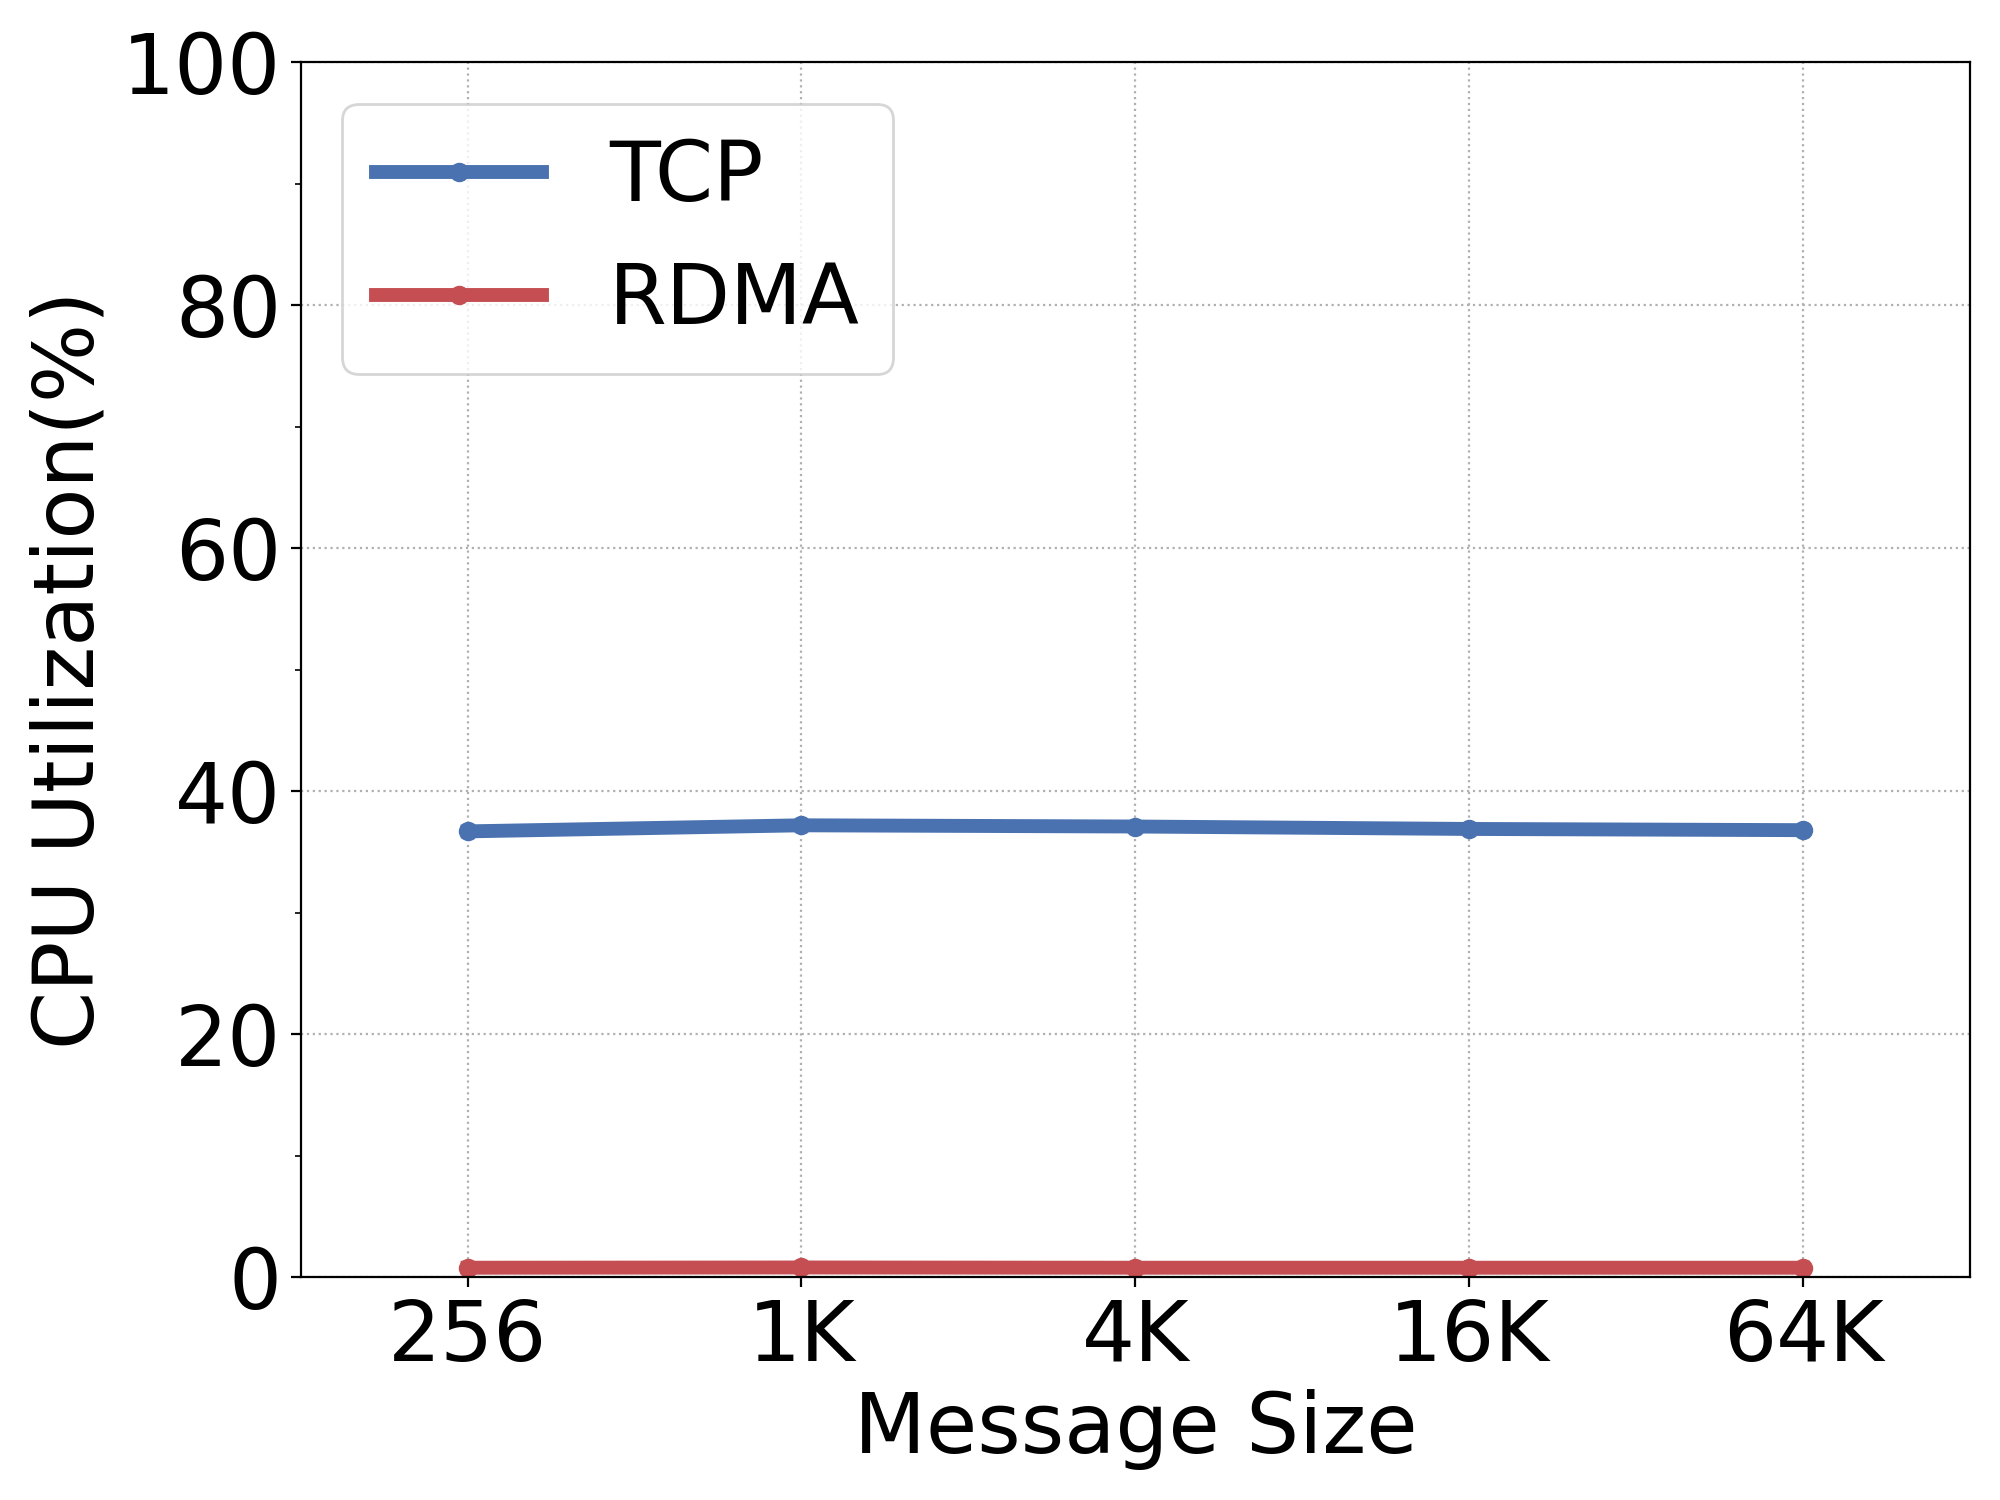
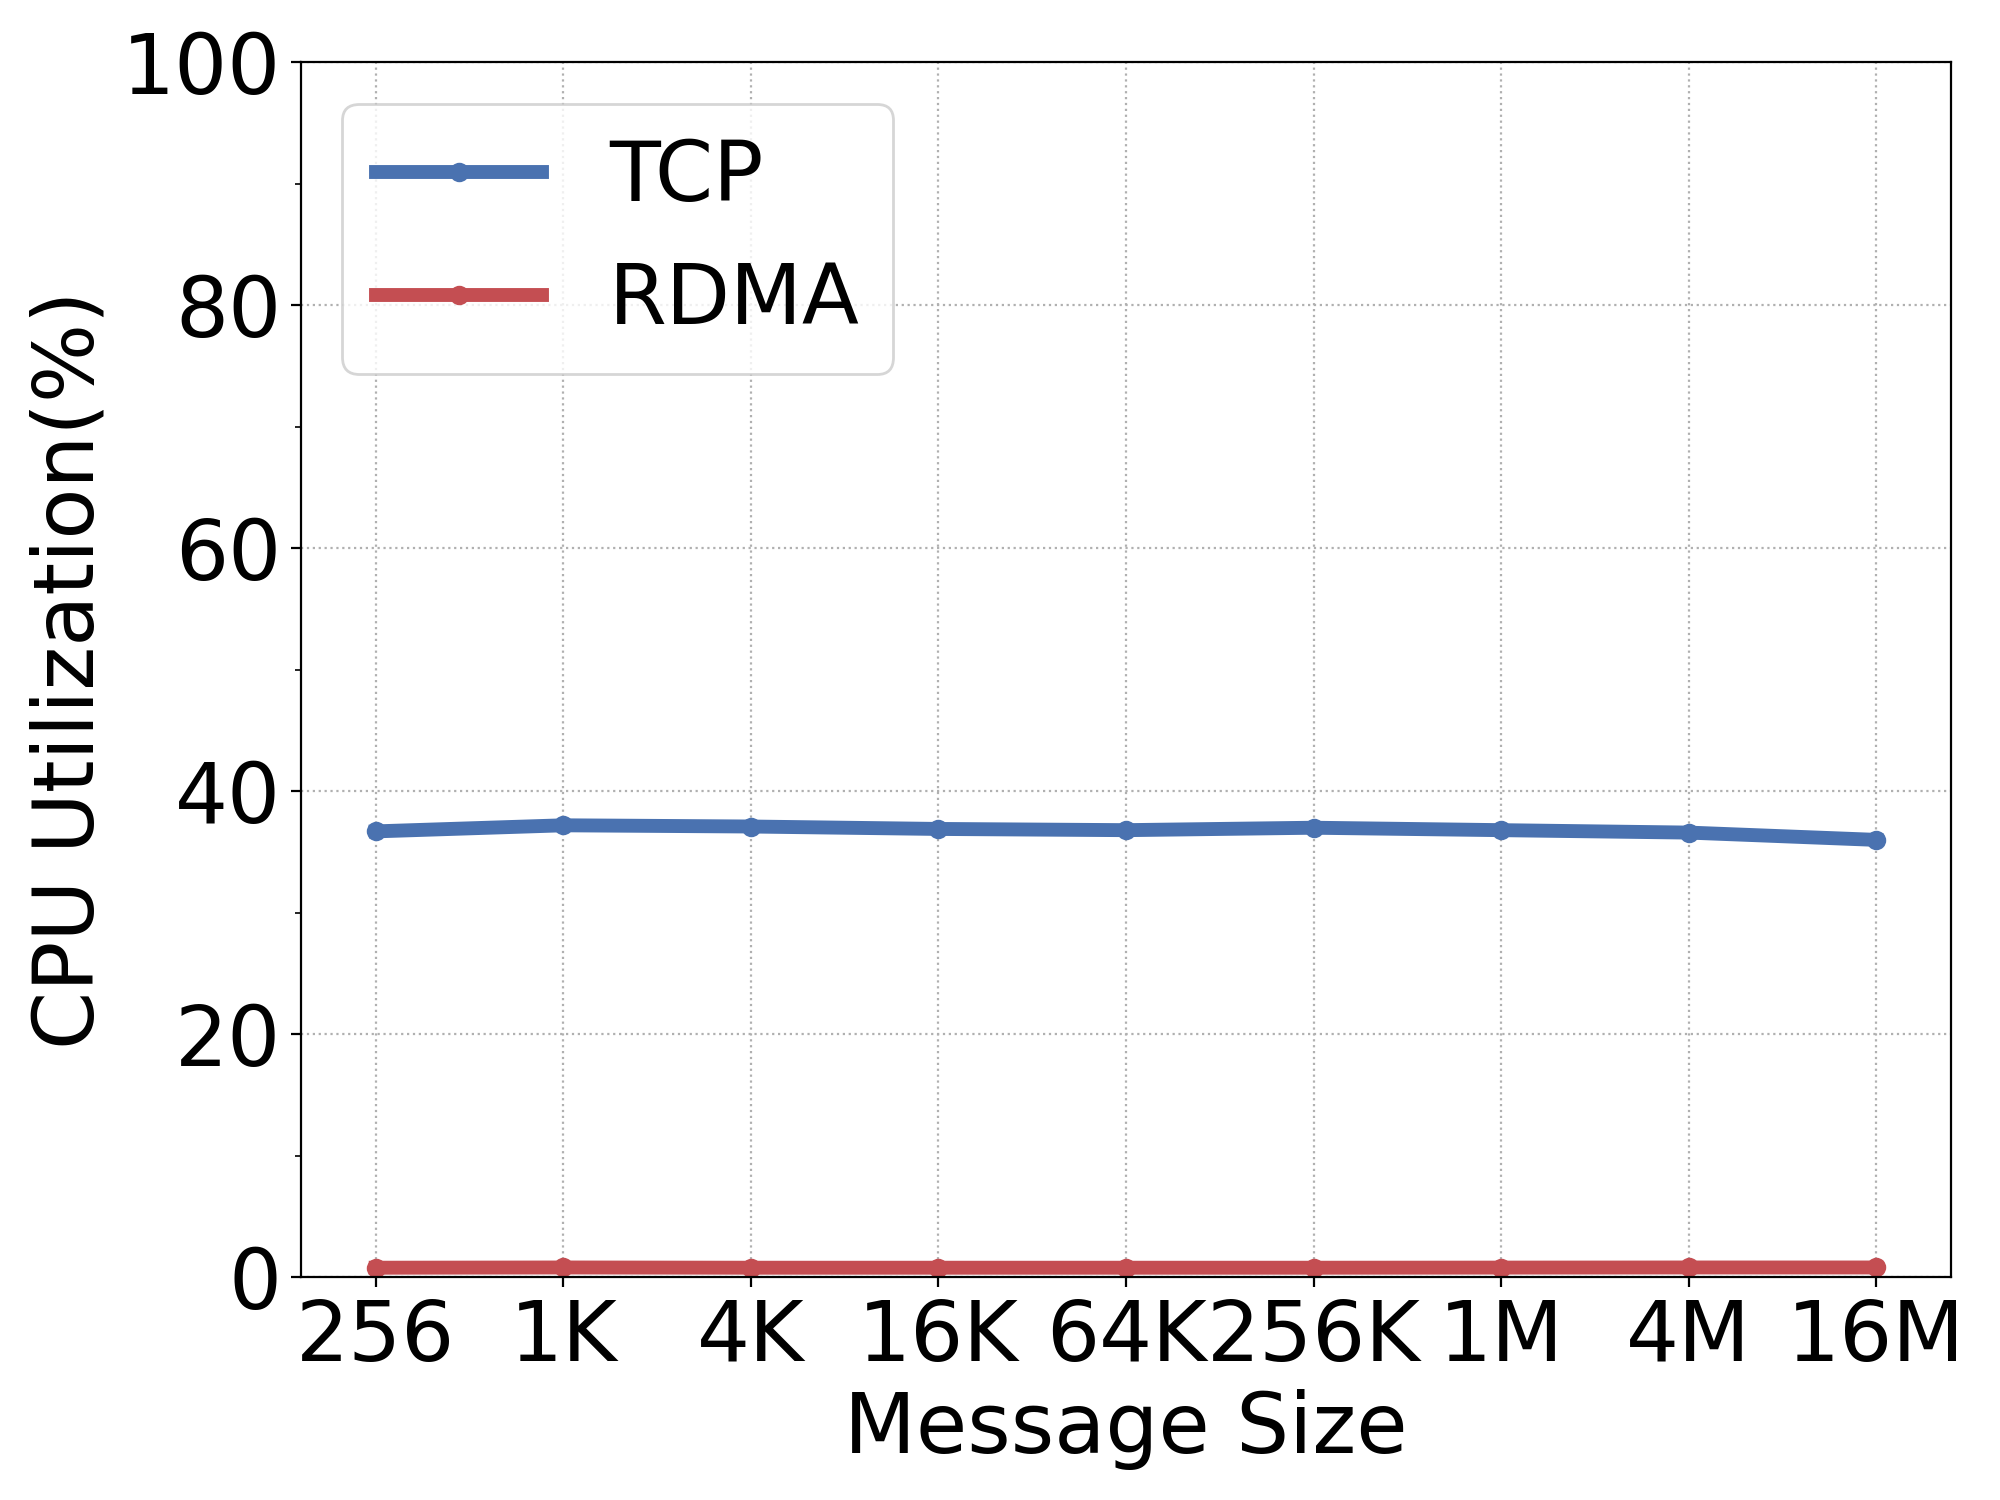
Add more data for each figure

diff --git a/tcp_rdma_performance_comparison/tcp_rdma_cpu_utilization.py b/tcp_rdma_performance_comparison/tcp_rdma_cpu_utilization.py
@@ -2,7 +2,6 @@
 # coding=utf-8
 
 import sys
-import random
 import matplotlib.pyplot as plt
 from matplotlib.ticker import MultipleLocator, FormatStrFormatter
 
@@ -36,13 +35,13 @@ ax.xaxis.grid(True, which='major', ls='dotted')
 ax.yaxis.grid(True, which='major', ls='dotted')
 
 plt.ylim(0, 100)
-plt.xlim(128, 65536*2)
+# plt.xlim(128, 65536*2)
 
-x_loc = [256, 1024, 4096, 16384, 65536]
-x_value = ["256", "1K", "4K", "16K", "64K"]
+x_loc = [256, 1024, 4096, 16384, 65536, 65536*4, 65536*16, 65536*64, 65536*256]
+x_value = ["256", "1K", "4K", "16K", "64K", "256K", "1M", "4M", "16M"]
 
-y_tcp = [36.7, 37.2, 37.1, 36.9, 36.8]
-y_rdma = [0.8, 0.82, 0.8, 0.8, 0.8]
+y_tcp = [36.7, 37.2, 37.1, 36.9, 36.8, 37, 36.8, 36.6, 36]
+y_rdma = [0.8, 0.82, 0.8, 0.8, 0.8, 0.8, 0.81, 0.82, 0.82]
 
 plt.plot(x_loc, y_tcp, marker='o', label="TCP")
 plt.plot(x_loc, y_rdma, marker='o', label="RDMA")

diff --git a/tcp_rdma_performance_comparison/tcp_rdma_throughput.py b/tcp_rdma_performance_comparison/tcp_rdma_throughput.py
@@ -35,13 +35,13 @@ ax.xaxis.grid(True, which='major', ls='dotted')
 ax.yaxis.grid(True, which='major', ls='dotted')
 
 plt.ylim(0, 100)
-plt.xlim(128, 65536*2)
+# plt.xlim(128, 65536*2)
 
-x_loc = [256, 1024, 4096, 16384, 65536]
-x_value = ["256", "1K", "4K", "16K", "64K"]
+x_loc = [256, 1024, 4096, 16384, 65536, 65536*4, 65536*16, 65536*64, 65536*256]
+x_value = ["256", "1K", "4K", "16K", "64K", "256K", "1M", "4M", "16M"]
 
-y_tcp = [16.5, 16.6, 16.9, 16.9, 17.4]
-y_rdma = [13.8, 50.85, 91.97, 92.44, 92.55]
+y_tcp = [16.5, 16.6, 16.9, 16.9, 17.4, 31.5, 48, 72.8, 92.1]
+y_rdma = [13.8, 50.85, 91.97, 92.44, 92.55, 92.56, 92.55, 92.56, 92.56]
 
 plt.plot(x_loc, y_tcp, marker='o', label="TCP")
 plt.plot(x_loc, y_rdma, marker='o', label="RDMA")

diff --git a/tcp_rdma_performance_comparison/tcp_rdma_latency.py b/tcp_rdma_performance_comparison/tcp_rdma_latency.py
@@ -31,7 +31,7 @@ ax.yaxis.grid(True, which='major', ls='dotted')
 # plt.plot(imap_xcdf, imap_ycdf, '-', label="IMap")
 # plt.plot(zmap_xcdf, zmap_ycdf, '-', label="ZMap")
 x = np.array(['TCP', 'RDMA Write', 'RDMA Read', 'RDMA Send'])
-y = np.array([50, 2.22, 4.32, 2.24])
+y = np.array([25, 2.22, 4.32, 2.24])
 plt.bar(x, y)
 plt.xticks(rotation=15)
 
